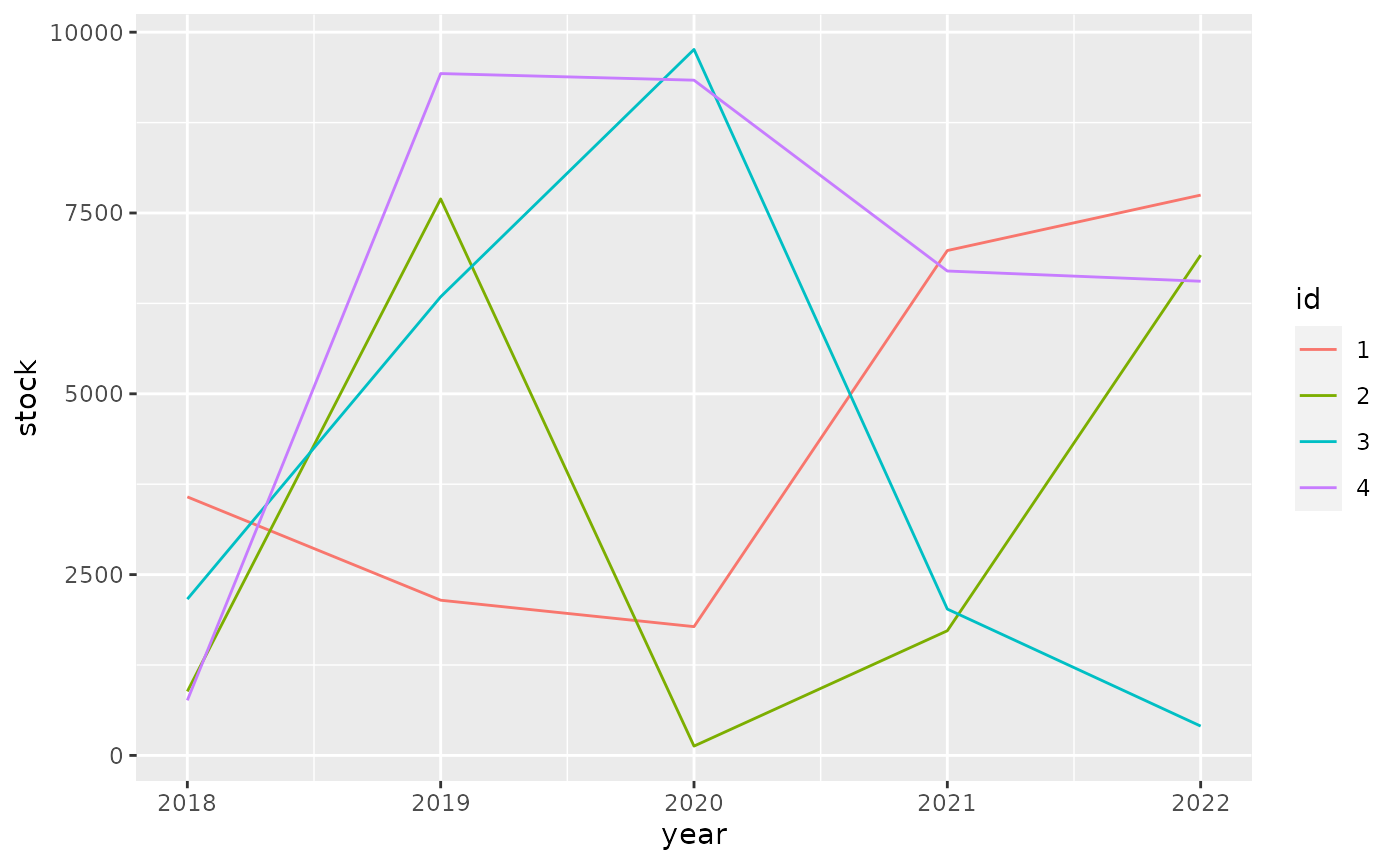
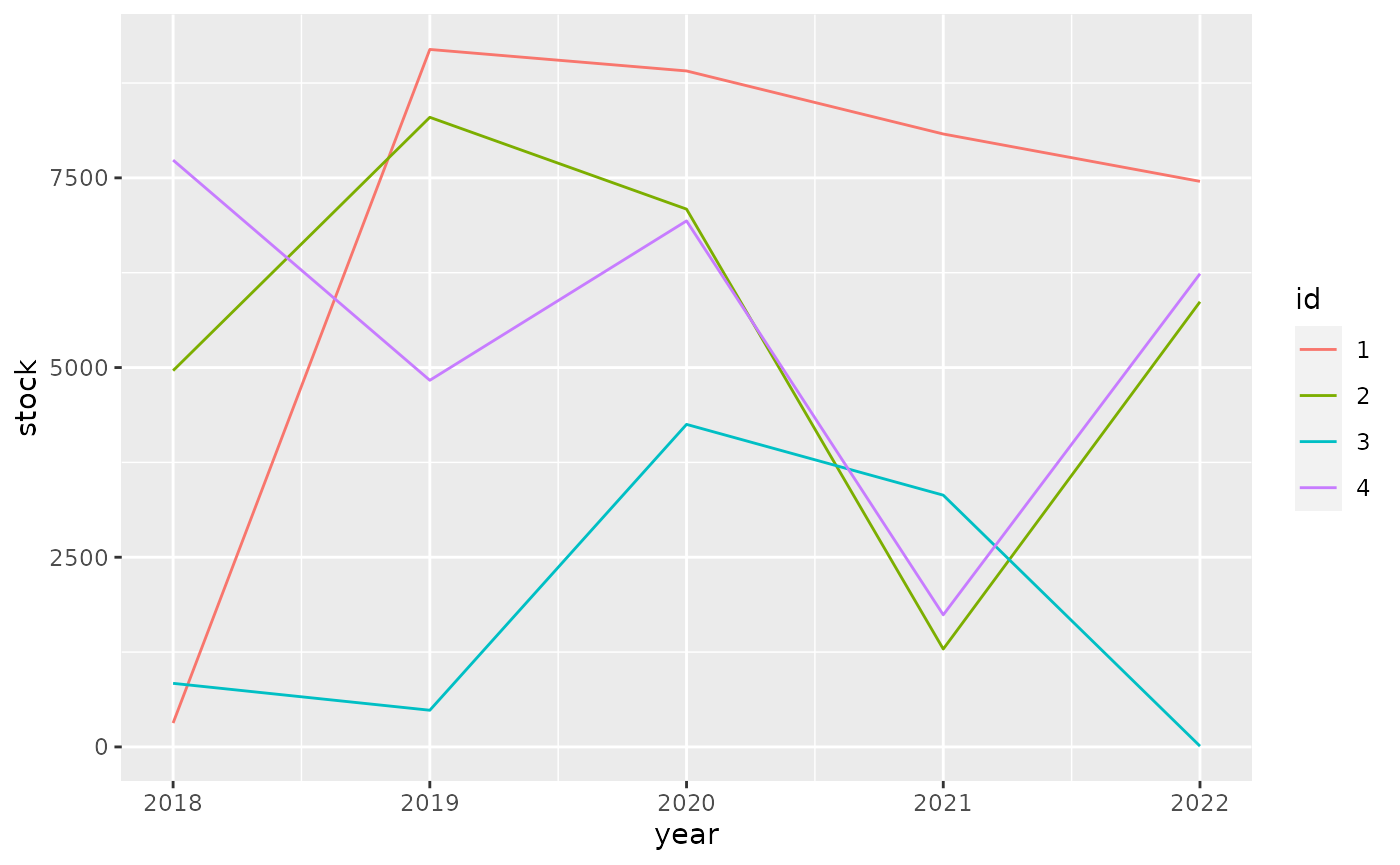
Built site for tibble: 3.0.6@194be87

diff --git a/articles/formats.html b/articles/formats.html
@@ -218,10 +218,10 @@
 <span class="co">#&gt; # A tibble: 4 x 6</span>
 <span class="co">#&gt;   id       `2018`    `2019`    `2020`    `2021`    `2022`</span>
 <span class="co">#&gt;   &lt;fct&gt; &lt;dbl:fmt&gt; &lt;dbl:fmt&gt; &lt;dbl:fmt&gt; &lt;dbl:fmt&gt; &lt;dbl:fmt&gt;</span>
-<span class="co">#&gt; 1 1     $3,574.69 $2,145.83 $1,780.50 $6,980.76 $7,747.56</span>
-<span class="co">#&gt; 2 2       $885.01 $7,694.84   $128.72 $1,723.71 $6,917.84</span>
-<span class="co">#&gt; 3 3     $2,160.70 $6,341.35 $9,761.50 $2,023.27   $405.24</span>
-<span class="co">#&gt; 4 4       $761.28 $9,428.05 $9,336.45 $6,697.88 $6,556.40</span></code></pre></div>
+<span class="co">#&gt; 1 1       $314.71 $9,192.51 $8,909.13 $8,078.22 $7,453.87</span>
+<span class="co">#&gt; 2 2     $4,959.29 $8,298.14 $7,087.99 $1,290.07 $5,866.89</span>
+<span class="co">#&gt; 3 3       $838.09   $483.43 $4,250.85 $3,318.00    $10.90</span>
+<span class="co">#&gt; 4 4     $7,734.14 $4,832.19 $6,932.91 $1,740.99 $6,236.01</span></code></pre></div>
 <p>For ggplot2 we need to do <a href="https://github.com/tidyverse/ggplot2/pull/4065">some work</a> to show apply the formatting to the scales.</p>
 <div class="sourceCode" id="cb6"><pre class="downlit sourceCode r">
 <code class="sourceCode R"><span class="kw"><a href="https://rdrr.io/r/base/library.html">library</a></span><span class="op">(</span><span class="va"><a href="https://ggplot2.tidyverse.org">ggplot2</a></span><span class="op">)</span>
@@ -232,10 +232,10 @@
   <span class="fu"><a href="https://ggplot2.tidyverse.org/reference/geom_path.html">geom_line</a></span><span class="op">(</span><span class="op">)</span></code></pre></div>
 <p><img src="formats_files/figure-html/unnamed-chunk-7-1.png" width="700"></p>
 <p>It pays off to specify formatting very early in the process. The diagram below shows the principal stages of data analysis and exploration from “R for data science”.</p>
-<div id="htmlwidget-f3b50cb626b017e40086" style="width:700px;height:432.632880098888px;" class="DiagrammeR html-widget"></div>
-<script type="application/json" data-for="htmlwidget-f3b50cb626b017e40086">{"x":{"diagram":"graph TD\n  Import --> Tidy\n  Tidy --> Transform\n  Transform --> Visualize\n  Visualize --> Communicate\n  Visualize --> Model\n  Model -.-> Transform"},"evals":[],"jsHooks":[]}</script><p>The subsequent diagram adds data formats, communication options, and explicit data formatting. The original r4ds transitions are highlighted in bold. There are two principal options where to apply formatting for results: right before communicating them, or right after importing.</p>
-<div id="htmlwidget-c29d9e84202791a70b5b" style="width:700px;height:432.632880098888px;" class="DiagrammeR html-widget"></div>
-<script type="application/json" data-for="htmlwidget-c29d9e84202791a70b5b">{"x":{"diagram":"graph TD\n  .csv --> Import\n  API --> Import\n  DBI --> Import\n  dbplyr --> Import\n  Import -.-> Format[Format for analysis]\n  Format -.-> Tidy\n\n  subgraph r4ds\n  Import ==> Tidy\n  Tidy ==> Transform\n  Transform ==> Visualize\n  Visualize ==> Model\n  Model -.-> Transform\n  Visualize ==> Communicate\n  end\n\n  Visualize -.-> FormatComm[Format for communication]\n  FormatComm -.-> Communicate\n\n  FormatComm -- Apply formatting early --> Format\n\n  dbplyr -.-> Tidy\n  dbplyr -.-> Transform\n  dbplyr -.-> Visualize\n\n  Communicate --> gt\n  Communicate --> ggplot2\n  Communicate --> DT\n  Communicate --> plotly"},"evals":[],"jsHooks":[]}</script><p>Applying formatting early in the process gives the added benefit of showing the data in a useful format during the “Tidy”, “Transform”, and “Visualize” stages. For this to be useful, we need to ensure that the formatting options applied early:</p>
+<div id="htmlwidget-6d2682a8fe1c79d22504" style="width:700px;height:432.632880098888px;" class="DiagrammeR html-widget"></div>
+<script type="application/json" data-for="htmlwidget-6d2682a8fe1c79d22504">{"x":{"diagram":"graph TD\n  Import --> Tidy\n  Tidy --> Transform\n  Transform --> Visualize\n  Visualize --> Communicate\n  Visualize --> Model\n  Model -.-> Transform"},"evals":[],"jsHooks":[]}</script><p>The subsequent diagram adds data formats, communication options, and explicit data formatting. The original r4ds transitions are highlighted in bold. There are two principal options where to apply formatting for results: right before communicating them, or right after importing.</p>
+<div id="htmlwidget-f04203bcf9e0a71a74e7" style="width:700px;height:432.632880098888px;" class="DiagrammeR html-widget"></div>
+<script type="application/json" data-for="htmlwidget-f04203bcf9e0a71a74e7">{"x":{"diagram":"graph TD\n  .csv --> Import\n  API --> Import\n  DBI --> Import\n  dbplyr --> Import\n  Import -.-> Format[Format for analysis]\n  Format -.-> Tidy\n\n  subgraph r4ds\n  Import ==> Tidy\n  Tidy ==> Transform\n  Transform ==> Visualize\n  Visualize ==> Model\n  Model -.-> Transform\n  Visualize ==> Communicate\n  end\n\n  Visualize -.-> FormatComm[Format for communication]\n  FormatComm -.-> Communicate\n\n  FormatComm -- Apply formatting early --> Format\n\n  dbplyr -.-> Tidy\n  dbplyr -.-> Transform\n  dbplyr -.-> Visualize\n\n  Communicate --> gt\n  Communicate --> ggplot2\n  Communicate --> DT\n  Communicate --> plotly"},"evals":[],"jsHooks":[]}</script><p>Applying formatting early in the process gives the added benefit of showing the data in a useful format during the “Tidy”, “Transform”, and “Visualize” stages. For this to be useful, we need to ensure that the formatting options applied early:</p>
 <ul>
 <li>give a good user experience for analysis
 <ul>

diff --git a/articles/types.html b/articles/types.html
@@ -349,7 +349,7 @@
 #&gt; $ factor        &lt;fct&gt; A
 #&gt; $ ordered       &lt;ord&gt; a
 #&gt; $ Date          &lt;date&gt; 2021-01-28
-#&gt; $ POSIXt        &lt;dttm&gt; 2021-01-28 16:50:12
+#&gt; $ POSIXt        &lt;dttm&gt; 2021-01-28 16:57:08
 #&gt; $ difftime      &lt;drtn&gt; 1 secs
 #&gt; $ hms           &lt;time&gt; 00:00:01
 #&gt; $ integer64     &lt;int64&gt; 10000000000
@@ -379,7 +379,7 @@
 <span class="co">#&gt;             "sym"</span>
 <span class="co">#&gt;         }, typeof(x))</span>
 <span class="co">#&gt; }</span>
-<span class="co">#&gt; &lt;bytecode: 0x561cc4e7ff60&gt;</span>
+<span class="co">#&gt; &lt;bytecode: 0x558757b4ec88&gt;</span>
 <span class="co">#&gt; &lt;environment: namespace:pillar&gt;</span></code></pre></div>
 </div>
   </div>
